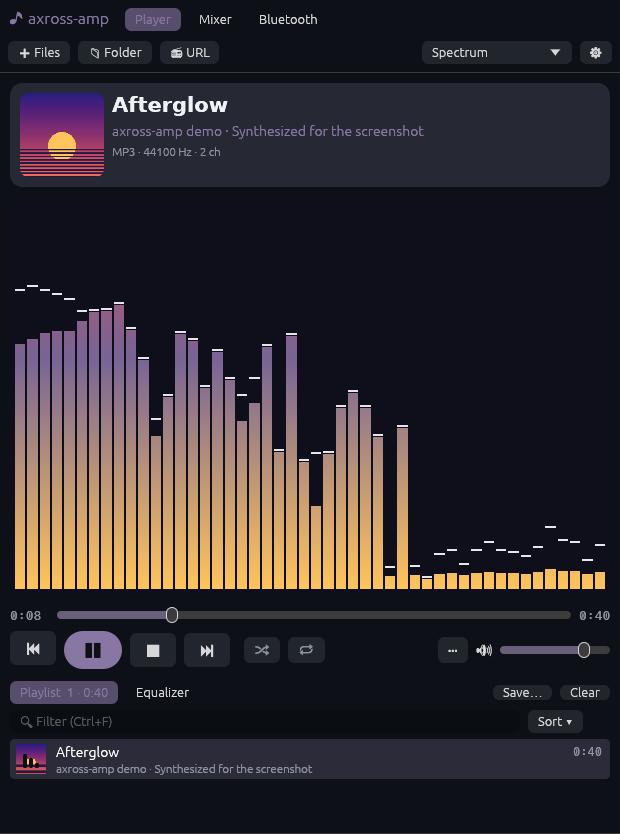
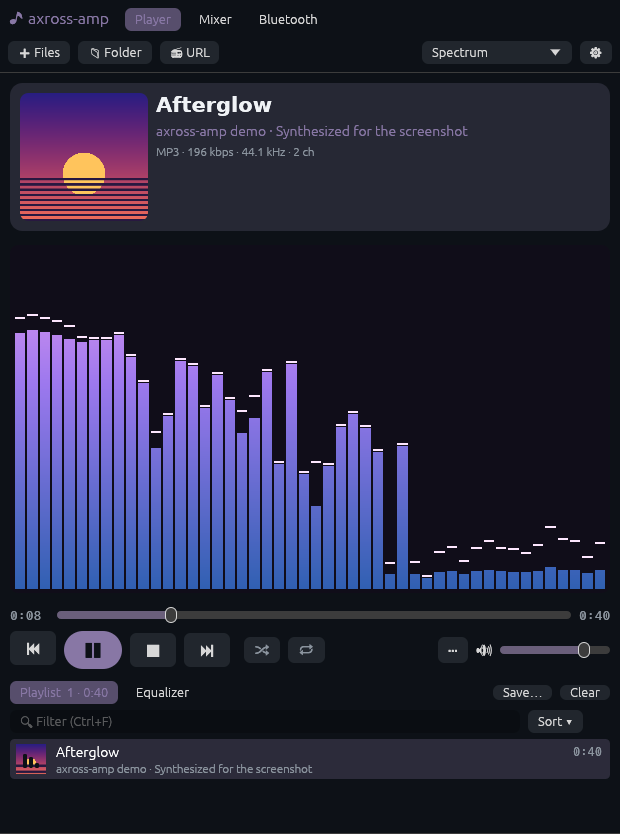
0.9.0: the README pictures taken again; the README on what changed and what is not covered
- Every picture retaken from the demo track, now with a 1200 px cover
  (docs/make_demo.py draws it at twice that and makes it smaller): the
  window (the card's cover larger, the format line with the bit rate),
  the three face sheets (the colours a ramp round the cover's hue, the
  waterfall smooth), axross's faces beside axross-amp's (the starfield
  and stereo scope as axross draws them again), the empty window, the
  Mixer and Bluetooth tabs.
- tests/ui.rs keeps the demo playing through the gallery (it ran out
  while the waterfall filled its history, and the faces after it were
  taken in silence) and lets the waterfall fill its history.
- README: the output limiter always in the path and where it holds, the
  0.35 dB margin and the 8x measure, the crossfade's album rule and fade
  on changing track, the meters from the fade's middle, the large cover,
  the designed colours and dithering, the software renderer's budget (12
  fps, down to 3, under a core) and what it costs, the Feedback face's
  honest description, the classic faces' defaults and options, the EBU
  cases covered and why the others are not.

Changed region(s): [[0.0, 0.3429, 0.9806, 0.717], [0.0, 0.0935, 1.0, 0.2806], [0.6435, 0.1559, 0.7048, 0.1871]]

diff --git a/tests/ui.rs b/tests/ui.rs
@@ -199,22 +199,28 @@ fn the_readme_picture() {
     // every face from the same music, for the README's gallery
     let gallery = shots().join("gallery");
     std::fs::create_dir_all(&gallery).unwrap();
-    for (k, key) in FACES
+    for key in FACES
         .iter()
         .filter(|f| f.group != Group::Off)
         .map(|f| f.key)
-        .enumerate()
     {
-        // (the music goes on where it is lively: the demo is a minute long)
-        if k % 12 == 0 {
+        // (the music goes on where it is lively, and never runs out: the
+        // demo is 40 s long, the waterfall waits 9 s)
+        let at = harness.state().engine().shared.position();
+        if at > 24.0 || (key == "waterfall" && at > 18.0) || at < 1.0 {
             harness
                 .state()
                 .engine()
-                .send(axross_amp::engine::Command::Seek(14.0));
+                .send(axross_amp::engine::Command::Seek(10.0));
         }
         harness.state_mut().set_mode(key);
-        // (the overview once the whole track is read)
-        let wait = if key == "overview" { 15_000 } else { 1800 };
+        // (the overview once the whole track is read; the waterfall once
+        // its history is full: 256 steps at 30 a second)
+        let wait = match key {
+            "overview" => 15_000,
+            "waterfall" => 9_000,
+            _ => 1800,
+        };
         let end = std::time::Instant::now() + std::time::Duration::from_millis(wait);
         while std::time::Instant::now() < end {
             harness

diff --git a/README.md b/README.md
@@ -22,13 +22,19 @@ picture is made by `AMP_DEMO_TRACK=… cargo test --test ui -- --ignored`.</sub>
   as axross's; pause, seek, stop and a new track fade (no clicks), and so does a
   dropout's edge. At unity gain the samples go out bit for bit (a master peaking just
   under full scale is not bent); a track ReplayGain makes louder goes through a
-  look-ahead true-peak limiter (-1 dBTP measured by BS.1770's own 4x filter, 4 ms
-  ahead, its gain eased in and out) instead of clipping, and so does a track
-  resampled to the output's rate (-0.3 dBTP: a hot master's peaks between the samples
-  would clip there). An optional **crossfade** (1 to 12 s, off by default; equal
-  power) fades a track into the next - never inside an album, which stays gapless, and
-  each track at its own ReplayGain. The output callback takes no lock and allocates
-  nothing (a lock-free ring;
+  look-ahead true-peak limiter (-1 dBTP, 4 ms ahead, its gain eased in and out)
+  instead of clipping. The output has one too, always in the path (4 ms later, bit
+  for bit where it holds nothing back), holding the peaks at -0.3 dBTP wherever the
+  sound may go over full scale: a track resampled to the output's rate (its peaks
+  between samples become samples), two tracks summed in a crossfade, the equalizer
+  raising a band. Both find the peaks by BS.1770's 4x filter and aim 0.35 dB lower, as
+  that filter reads broadband sound low (the tests measure at 8x). An optional
+  **crossfade** (1 to 12 s, off by default; equal power) fades a track into the next -
+  never inside an album, which stays gapless (an album by its tags, or untagged files
+  of one folder in order: a live album's rips), each track at its own ReplayGain; the
+  meters count the new track from the fade's middle. Optionally a track chosen while
+  another plays fades in over it for a second. The output callback takes no lock and
+  allocates nothing (a lock-free ring;
   a test counts its allocations through a real device); files are read and decoded
   seconds ahead on threads of their own, so a slow disk or a stalled network share is
   no dropout. A small output buffer is asked for (1024 frames); the position and the
@@ -47,9 +53,13 @@ picture is made by `AMP_DEMO_TRACK=… cargo test --test ui -- --ignored`.</sub>
   the whole window comes from the cover, kept readable), the picture large - as large
   as a short playlist leaves room for - and below it the playlist (two lines a track,
   the playing one with its cover and bars that move with the sound) or the equalizer
-  (a dB scale, each band filled from its 0 dB line). The pictures' colours come from
-  the cover too, when it has some (or a scheme of axross's, below); the "Cover" face
-  makes the cover the picture, glowing with the bass. Nothing to play: a drop zone with
+  (a dB scale, each band filled from its 0 dB line). The card's cover is 120 to 200
+  px as the window allows, and the cover is kept up to 1024 px for it and for the
+  "Cover" face, which makes the cover the picture, glowing with the bass. The
+  pictures' colours come from the cover too, when it has some (or a scheme of
+  axross's, below): not its colours mixed (that made browns and olive greys) but a
+  ramp designed round its main hue in OKLCH - lightness rising evenly, a floor of
+  chroma - and the pictures are dithered (no bands in slow gradients). Nothing to play: a drop zone with
   Open files, Open folder, Add a URL and the keys. Paused, the picture stands still;
   changing faces fades one into the next.
 - **Visualizations**, 49 of them in three groups:
@@ -57,10 +67,11 @@ picture is made by `AMP_DEMO_TRACK=… cargo test --test ui -- --ignored`.</sub>
     colours and constants; [side by side](docs/axross-and-amp.png)): spectrum,
     mirrored, radial and polar spectrum, line spectrum, LED equalizer, particle
     columns, waterfall, ridgelines with their sun, spectrum terrain, 3D ring, bell
-    curves, wave ribbon, kaleidoscope, oscilloscope, stereo scope, VU meter, starfield
-    (the starfield with trails and a glow, the stereo scope with a phosphor's
-    persistence, the waterfall optionally smooth at high resolution - 256 log bands of
-    the fine spectrum, as foobar2000's spectrogram).
+    curves, wave ribbon, kaleidoscope, oscilloscope, stereo scope, VU meter,
+    starfield. Two differ by default: the waterfall is smooth, at high resolution (256
+    log bands of the fine spectrum, as foobar2000's spectrogram; axross's bars are an
+    option), and the two scopes find their gain (quiet or near-mono music still fills
+    them). Trails and glow for the starfield and the stereo scope are an option.
   - *Analysis* - a spectrum analyzer (8192-point FFT, a held peak curve, the
     strongest peak with its note and cents, the note and level under the pointer),
     a loudness meter after EBU R128 (momentary, short-term, integrated with both
@@ -73,9 +84,9 @@ picture is made by `AMP_DEMO_TRACK=… cargo test --test ui -- --ignored`.</sub>
     spectrogram in magma.
   - *Generative* - the cover, liquid (domain-warped noise), fire, metaballs, aurora,
     flow field, synthwave, a tunnel of glowing lines, galaxy, Julia set (smooth escape
-    colours, orbit traps), reaction-diffusion, a feedback face in MilkDrop's way (its
-    last frame warped under a new layer; five presets, a new one each phrase of 16
-    beats), a flyover of a raymarched night landscape the bass lifts, crystals
+    colours, orbit traps), reaction-diffusion, a feedback face in MilkDrop's manner
+    (its last frame warped under a new layer; five looks of its own, a new one each
+    phrase of 16 beats - it reads no MilkDrop presets), a flyover of a raymarched night landscape the bass lifts, crystals
     (Voronoi cells), a skyline (searchlights, traffic, roofs lit by their bands),
     isometric bars, DNA helix, spirograph, polygon morph, moiré (antialiased), beat
     rings, smoke and the title's words on the beat.
@@ -84,10 +95,12 @@ picture is made by `AMP_DEMO_TRACK=… cargo test --test ui -- --ignored`.</sub>
   their own from every sample played - minimised, on another tab or with the picture
   off too. The pixel faces are WGSL shaders run through egui's wgpu renderer. Where
   the renderer is slow (a software rasterizer such as llvmpipe: measured at the start,
-  by the CPU time a face costs either way) the window is drawn at most 20 times a
-  second and the shader faces either smaller and scaled up or by a thread of the
-  player's own per pixel, whichever measured cheaper; at rest nothing is drawn (no
-  frames, no work) and the last picture stays. The picture is analysed once a
+  by the CPU time a face costs either way) the window is drawn at most 12 times a
+  second, fewer where a frame costs more (a large window: down to 3), so that it
+  takes about 0.6 of a core; the cover face 4 times; the shader faces in at most
+  about 90,000 pixels, scaled up, or by a thread of the player's own per pixel,
+  whichever measured cheaper. At rest nothing is drawn (no frames, no work) and the
+  last picture stays. The picture is analysed once a
   frame for all faces, and neither that nor most faces allocate in a frame; the
   pictures move alike at any frame rate. In axross's colour schemes (Classic, Fire,
   Ice, Neon, Mono, Follow the theme, Custom - edited here), with its options (bars,
@@ -126,7 +139,7 @@ picture is made by `AMP_DEMO_TRACK=… cargo test --test ui -- --ignored`.</sub>
   volume, the visualization (`~/.config/axross/media_player.json`) and axross's one
   equalizer (`~/.config/axross/audio.json`) - the player inside axross and this
   program pick up where the other left off. Keys they do not know are kept. What
-  only this program has (window size, ReplayGain, crossfade, the cover's colours) is in
+  only this program has (window size, ReplayGain, crossfade, the cover's colours, the face options) is in
   `~/.config/axross/axross-amp.json`, as axross rewrites its own file with its keys.
   Files are written on a thread of their own, merged with what axross's player wrote
   meanwhile (its playlist is not undone by a change of volume here).
@@ -217,9 +230,10 @@ Known limits: cpal's PulseAudio back end (cpal 0.18.2, the newest) takes a mutex
 after the output callback has returned, to hand the samples over - outside this
 player's callback, which itself takes no lock, and out of its hands until cpal
 changes it. HLS radio (`.m3u8` segment lists) is not played. On a software renderer
-the whole window is drawn by the CPU: playing, it costs one to two cores at 20 frames
-a second (measured on llvmpipe in a real window by `tests/real_window.rs`); at rest
-about nothing.
+the whole window is drawn by the CPU (llvmpipe: 0.06 to 0.25 s of a core a frame,
+more as the window grows): the frame rate is lowered to stay under a core, so a
+large window on a software renderer moves at a few frames a second
+(`tests/real_window.rs` measures it); at rest it costs about nothing.
 The beat is found from the onsets; on syncopated music the tempo may read half or
 double. The notes below about C2 are not told apart from their neighbours.
 
@@ -239,16 +253,20 @@ against the GPU, the cost of a frame at 620 x 300, 1920 x 1080 and 3840 x 2160, 
 allocations of a frame counted; the analysis against known signals (a 1 kHz sine at
 -18 dBFS reads -18 LUFS, mono correlates +1 and inverted -1, a C major chord lights
 C, E and G, clicks at 128 BPM are 128 BPM, an intersample peak is found) and EBU
-Tech 3341's cases 1-5, 9-11 and 15-18 and Tech 3342's cases 1-4 synthesised (6 is
-5.0, 7, 8, 19-23 and 3342's 5 and 6 are EBU's recordings, 12-14 could not be checked
-against the specification here: not claimed); end to end through the player, the
+Tech 3341's cases 1-5, 9-11 and 15-18 and Tech 3342's cases 1-4 synthesised. Not
+covered: 3341's case 6 (5.0 - the meter measures what is played, the stereo
+downmix), 7, 8, 19-23 and 3342's 5 and 6 (EBU's own recordings, not derivable),
+12-14 (their signals could not be checked against the specification here: not
+claimed); end to end through the player, the
 same integrated loudness shown, hidden, with the picture off and at 3 fps, the meters
 starting a new track at its first sound, a chord progression's key and a melody's
 notes; the CPU's drawing of the shader faces against the GPU's by SSIM in each colour
 channel and by ΔE at the same moment; a hot master bit for bit at unity gain, the
-limiter's true peak, a crossfade, an album gapless with a crossfade set. In a real
-window (Xvfb, `tests/real_window.rs`) the frame rate stays under its cap and at rest
-the player costs under 5 % of a core.
+limiter's true peak (measured at 8x: a dense master resampled, two hot masters
+crossfaded), a crossfade, a fade when changing track, an album gapless with a
+crossfade set (also untagged rips of one folder). In a real window (Xvfb,
+`tests/real_window.rs`, also 1200 x 980) the frame rate stays under its cap, on a
+software renderer the player takes under a core (`--release`), and at rest under 5 %.
 `tests/python_compat.rs` has axross's own Python read and write the shared state file
 (`AMP_AXROSS`, `AMP_PYTHON`; it says loudly when it could not).
 `docs/axross_faces.py` renders axross's own faces (offscreen Qt) from the same signal
